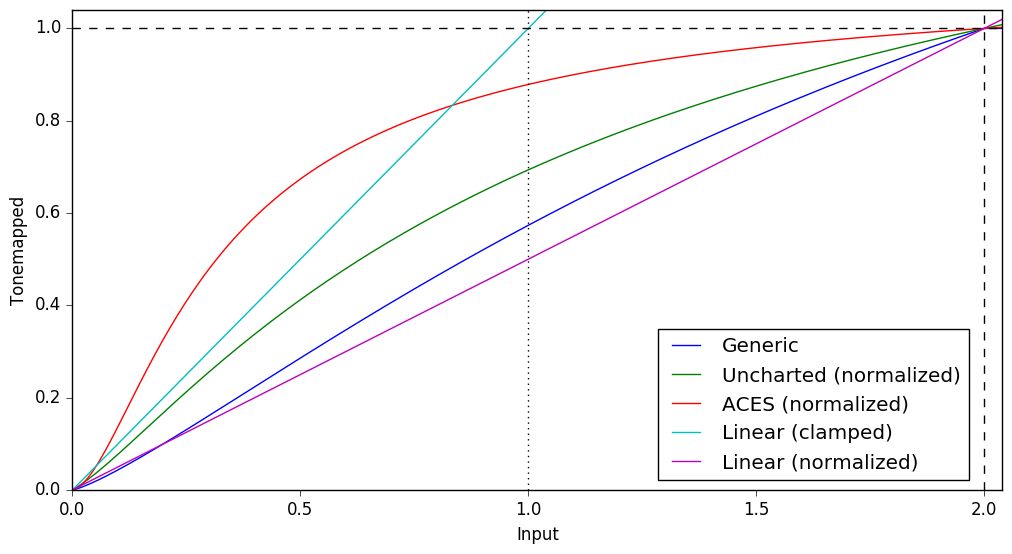
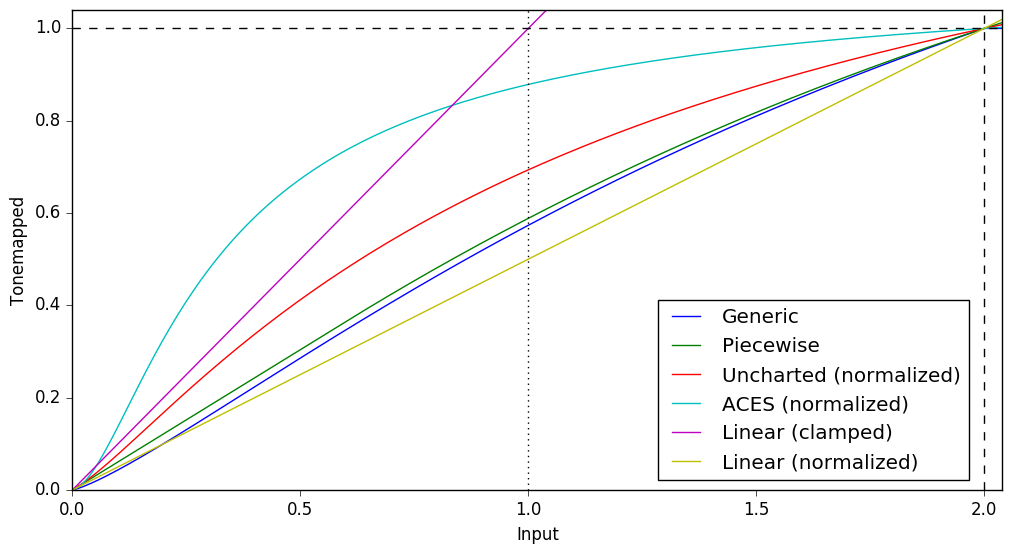
Updated piecewise curve

diff --git a/tonemapper.py b/tonemapper.py
@@ -54,26 +54,24 @@ class Piecewise():
         # def __init__(self):
 
         def evaluate(self, x):
-            #float x0 = (x - m_offsetX)*m_scaleX;
-	    #float y0 = expf(m_lnA + m_B*logf(x0));
-	    #return y0*m_scaleY + m_offsetY;
-            x = max(x, 0.000001)
-
             x0 = (x - self.offset_x) * self.scale_x
-            y0 = math.exp(self.ln_a + self.b * math.log(x0))
+            y0 = 0.0
+
+            if x0 > 0.0:
+                y0 = math.exp(self.ln_a + self.b * math.log(x0))
             
             return y0 * self.scale_y + self.offset_y
         
     def __init__(self, hdr_max):
         self.segments = [self.Segment(), self.Segment(), self.Segment()]
 
-        x0 = 0.3
-        y0 = 0.3
-        x1 = 0.7
-        y1 = 0.7
+        x0 = 0.25
+        y0 = 0.25
+        x1 = 0.6
+        y1 = 0.6
 
-        overshoot_x = 1.0
-        overshoot_y = 1.0
+        overshoot_x = hdr_max * 4.0
+        overshoot_y = 1.5
         
 
         norm_x0 = x0 / hdr_max
@@ -87,11 +85,19 @@ class Piecewise():
         m, b = Piecewise.as_slope_intercept(norm_x0, norm_x1, y0, y1)
 
         self.segments[1].offset_x = -(b / m)
+        self.segments[1].offset_y = 0.0
+        self.segments[1].scale_x = 1.0
+        self.segments[1].scale_y = 1.0
         self.segments[1].ln_a = math.log(m)
+        self.segments[1].b = 1.0
 
         # toe segment
         toe_m = m
         ln_a, b = Piecewise.solve_a_b(norm_x0, y0, toe_m)
+        self.segments[0].offset_x = 0.0
+        self.segments[0].offset_y = 0.0
+        self.segments[0].scale_x = 1.0
+        self.segments[0].scale_y = 1.0
         self.segments[0].ln_a = ln_a
         self.segments[0].b = b
 
@@ -101,10 +107,26 @@ class Piecewise():
         
         shoulder_m = m
         ln_a, b = Piecewise.solve_a_b(shoulder_x0, shoulder_y0, shoulder_m)
+
+        self.segments[2].offset_x = 1.0 + norm_overshoot_x
+        self.segments[2].offset_y = 1.0 + overshoot_y
+        self.segments[2].scale_x = -1.0
+        self.segments[2].scale_y = -1.0        
         self.segments[2].ln_a = ln_a
         self.segments[2].b = b
-        self.segments[2].scale_x = 1.0
-        self.segments[2].scale_y = 1.0
+
+        # Normalize so that we hit 1.0 at white point
+        scale = self.segments[2].evaluate(1.0)
+        inv_scale = 1.0 / scale
+
+        self.segments[0].offset_y *= inv_scale
+        self.segments[0].scale_y *= inv_scale
+
+        self.segments[1].offset_y *= inv_scale
+        self.segments[1].scale_y *= inv_scale
+
+        self.segments[2].offset_y *= inv_scale
+        self.segments[2].scale_y *= inv_scale
         
         self.hdr_max = hdr_max
         
@@ -132,7 +154,8 @@ class Piecewise():
     @staticmethod
     def solve_a_b(x0, y0, m):
         b = (m * x0) / y0
-        return math.log(y0) - b * math.log(x0), b
+        ln_a = math.log(y0) - b * math.log(x0)
+        return ln_a, b
     
 # Uncharted like in http://filmicgames.com/archives/75Jo
 def uncharted(x):
@@ -179,11 +202,13 @@ def plot_linear():
     hdr_max = 2.0
 
     generic = Generic(hdr_max)
+    piecewise = Piecewise(hdr_max)
     
     for x in numpy.linspace(0, 2.1, num=256):
         color = x
         color_in.append(color)
         color_generic.append(generic.evaluate(color))
+        color_piecewise.append(piecewise.evaluate(color))
         #color_uncharted.append(uncharted(color))
         color_uncharted.append(normalized_uncharted(color, hdr_max))
         #color_aces.append(aces(color))
@@ -191,6 +216,7 @@ def plot_linear():
         color_linear.append(normalized_linear(color, hdr_max))
 
     plt.plot(color_in, color_generic, label='Generic')
+    plt.plot(color_in, color_piecewise, label='Piecewise')
     plt.plot(color_in, color_uncharted, label='Uncharted (normalized)')
     plt.plot(color_in, color_aces, label='ACES (normalized)')
     plt.plot(color_in, color_in, label='Linear (clamped)')
@@ -221,7 +247,7 @@ def plot_log():
 
     color_in = []
     color_generic = []
-    #color_piecewise = []
+    color_piecewise = []
     color_uncharted = []
     color_aces = []
     color_linear = []
@@ -229,13 +255,13 @@ def plot_log():
     hdr_max = 16.0
 
     generic = Generic(hdr_max)
-    #piecewise = Piecewise(hdr_max)
+    piecewise = Piecewise(hdr_max)
     
     for x in numpy.logspace(-1, 5, num=256, base=2):
         color = x - math.pow(2, -1)
         color_in.append(color)
         color_generic.append(generic.evaluate(color))
-        #color_piecewise.append(piecewise.evaluate(color))
+        color_piecewise.append(piecewise.evaluate(color))
         #color_uncharted.append(uncharted(color))
         color_uncharted.append(normalized_uncharted(color, hdr_max))
         #color_aces.append(aces(color))
@@ -243,7 +269,7 @@ def plot_log():
         color_linear.append(normalized_linear(color, hdr_max))
 
     plt.semilogx(color_in, color_generic, basex=2, label='Generic')
-    #plt.plot(color_in, color_piecewise, label='Piecewise')
+    plt.plot(color_in, color_piecewise, label='Piecewise')
     plt.plot(color_in, color_uncharted, label='Uncharted (normalized)')
     plt.plot(color_in, color_aces, label='ACES (normalized)')
     plt.plot(color_in, color_in, label='Linear (clamped)')
